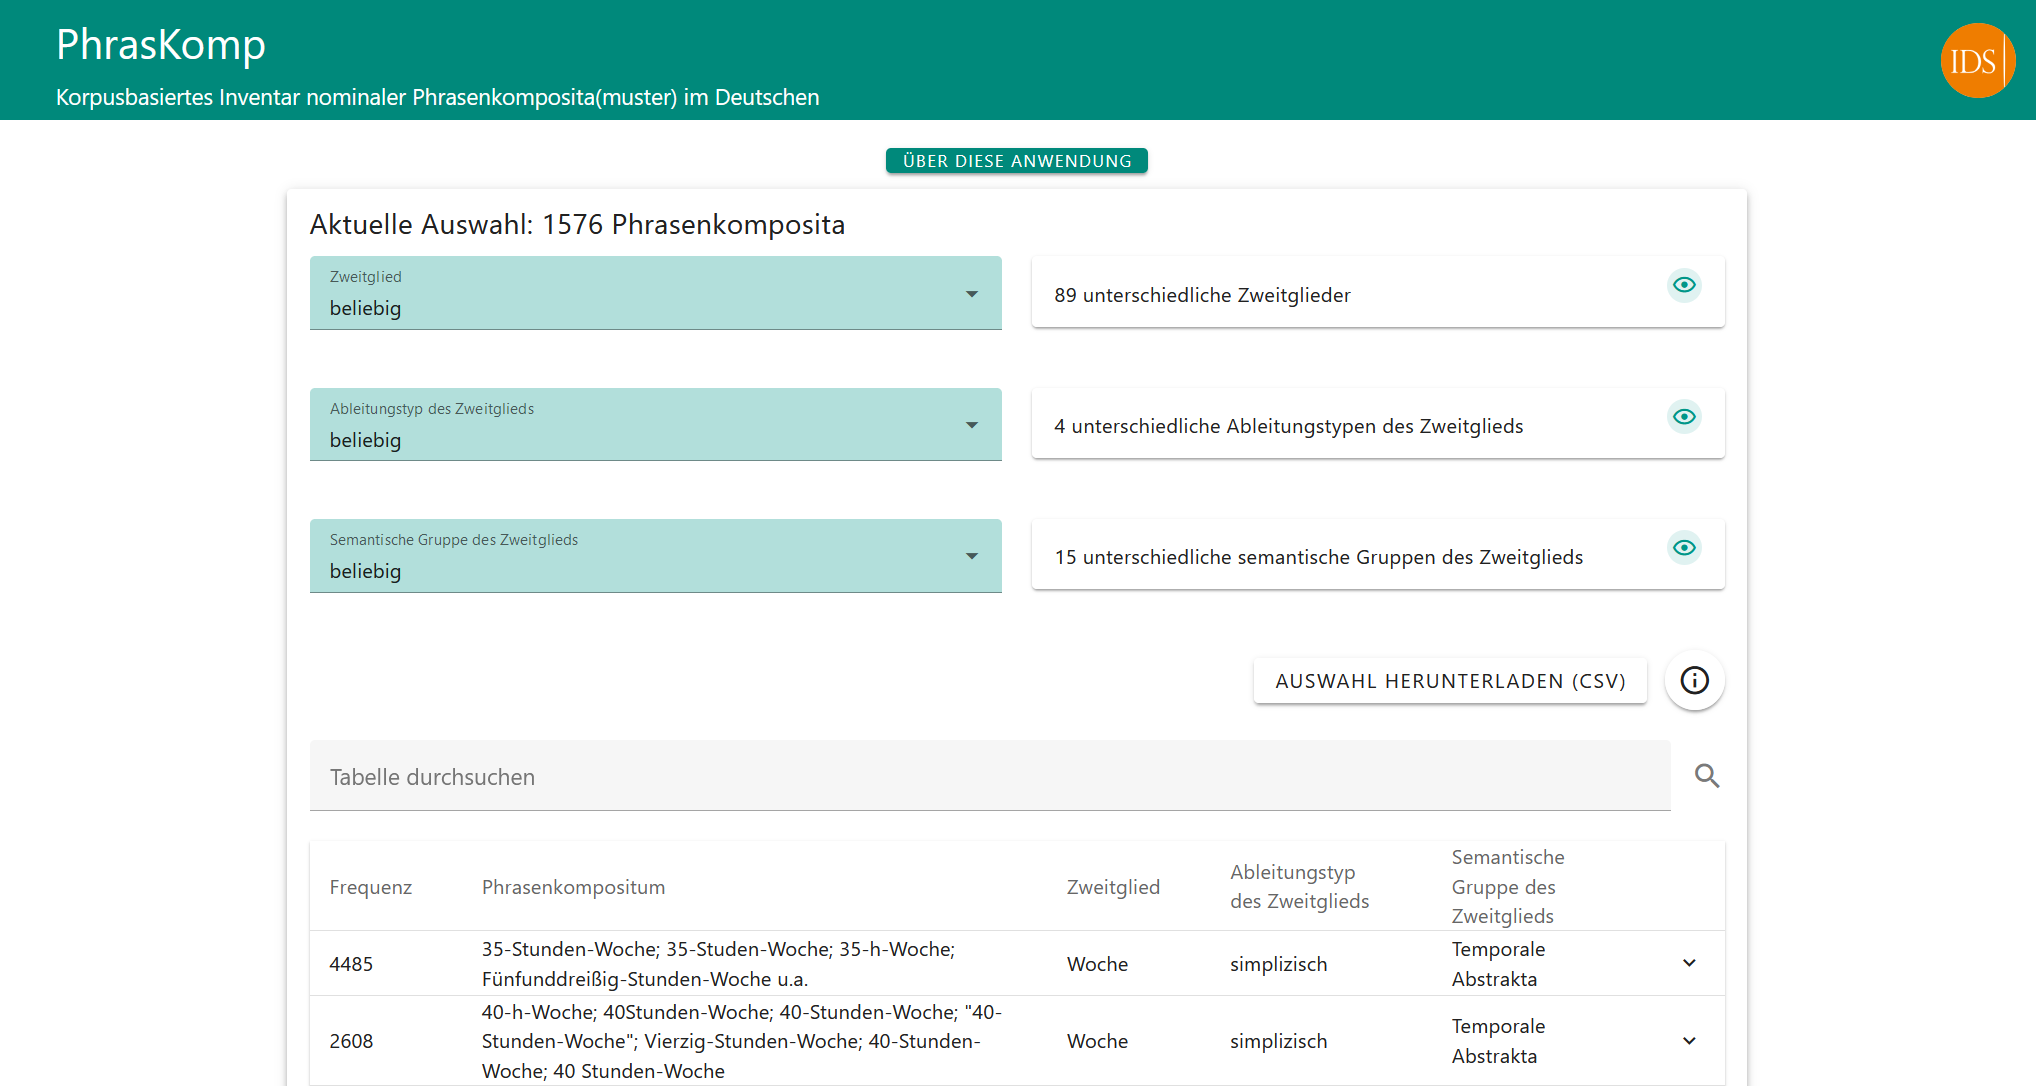
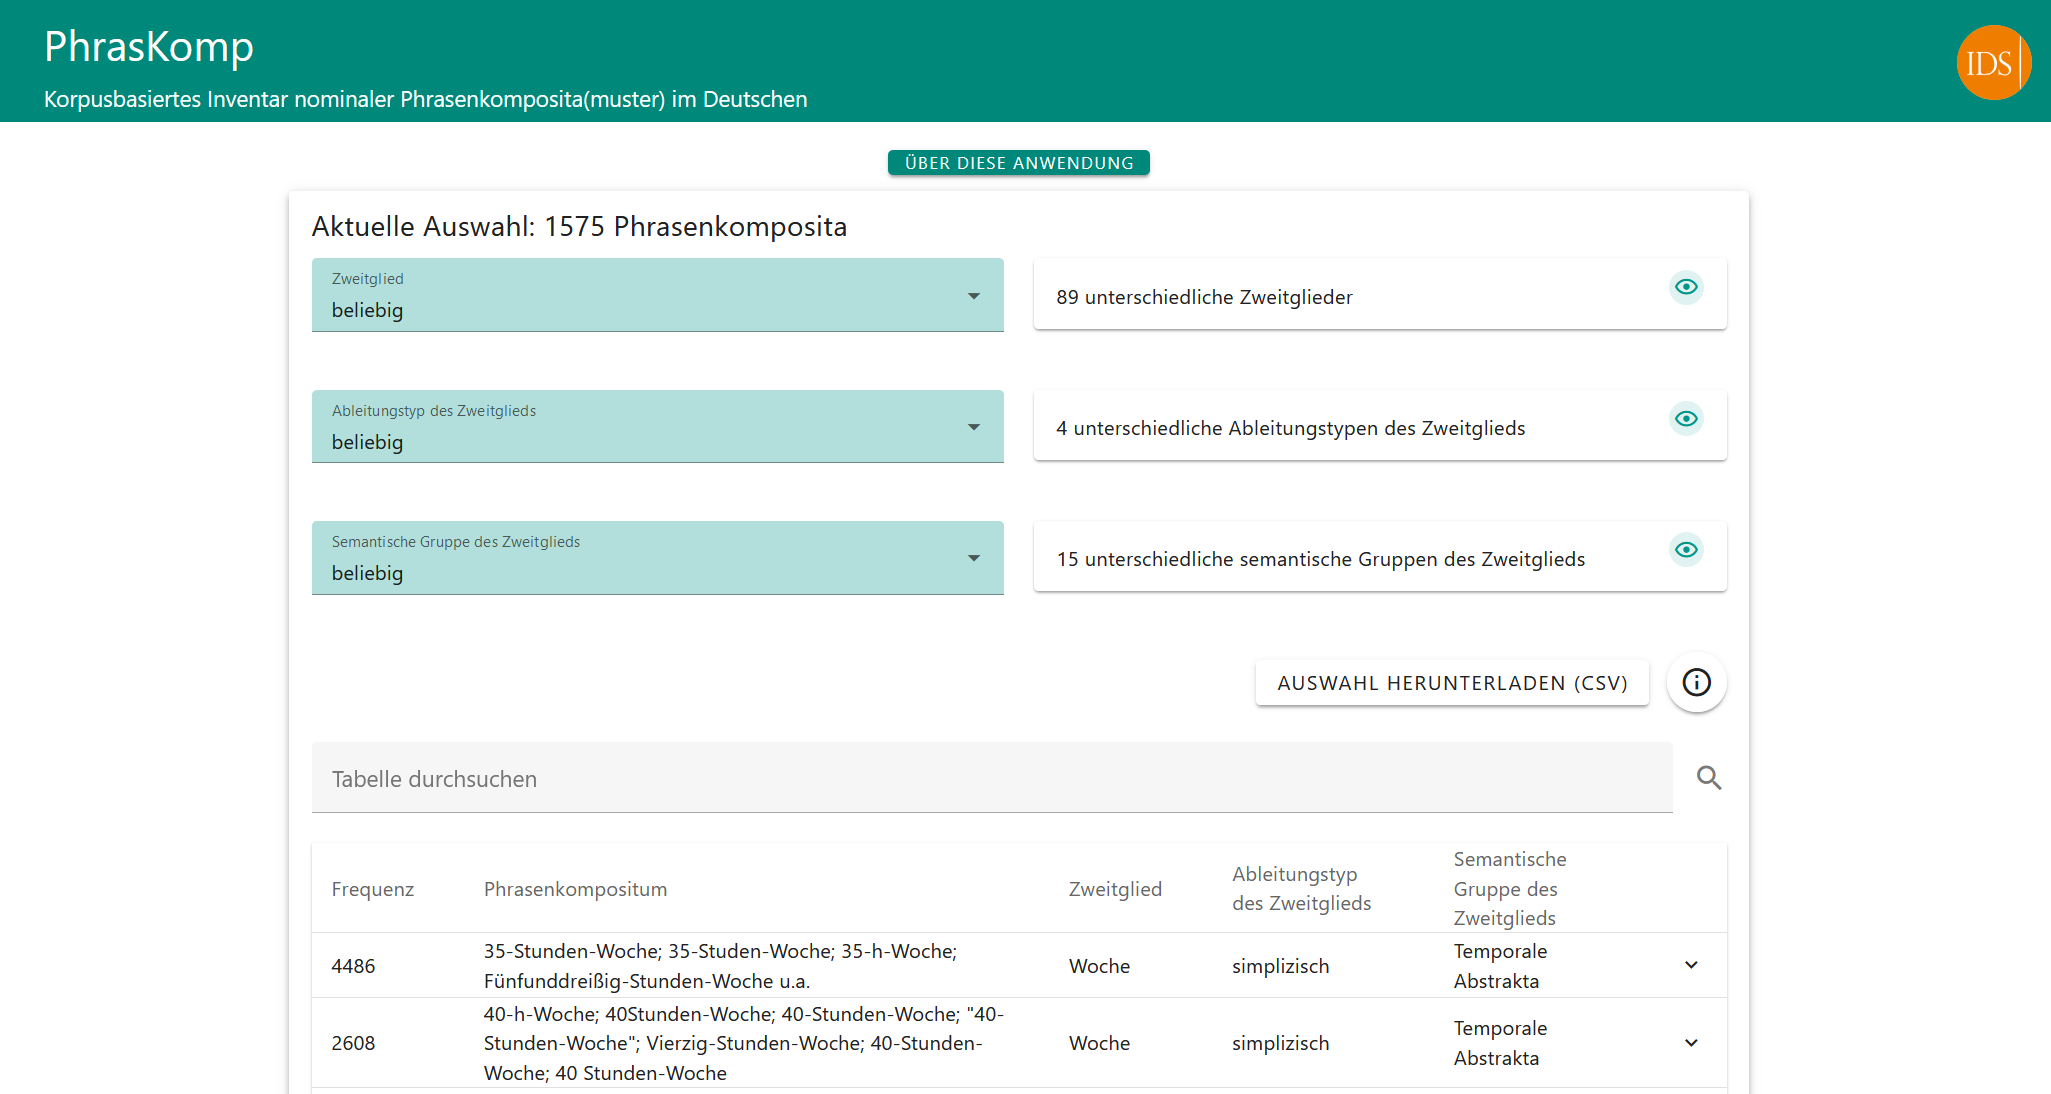
Korrekture Phraskomp typezahlen & Screenshots

diff --git a/stores/resources.js b/stores/resources.js
@@ -152,7 +152,7 @@ export const useResourcesStore = defineStore("resourcesStore", {
           nameLong:
             "PhrasKomp - Korpusbasiertes Inventar nominaler Phrasenkomposita(muster) im Deutschen",
           description:
-            "<b>PhrasKomp</b> ist ein korpusbasiertes, durchsuchbares Inventar von 1.576 nominalen Phrasenkomposita des Deutschen.  Es hat den Anspruch, die Bildungsmöglichkeiten der Phrasenkomposition im Deutschen repräsentativ abzubilden. Aufgrund der enthaltenen manuellen Annotationen kann das Inventar zudem gezielt nach lexikalisch teilspezifizierten oder abstrakten Submustern der Phrasenkomposition durchsucht werden, und zwar in Abhängigkeit des Zweitgliedtyps.",
+            "<b>PhrasKomp</b> ist ein korpusbasiertes, durchsuchbares Inventar von 1.575 nominalen Phrasenkomposita des Deutschen.  Es hat den Anspruch, die Bildungsmöglichkeiten der Phrasenkomposition im Deutschen repräsentativ abzubilden. Aufgrund der enthaltenen manuellen Annotationen kann das Inventar zudem gezielt nach lexikalisch teilspezifizierten oder abstrakten Submustern der Phrasenkomposition durchsucht werden, und zwar in Abhängigkeit des Zweitgliedtyps.",
           img: "./img/sources/phraskomp.png",
           url: "http://uwv.ids-mannheim.de/phraskomp/",
           tags: [],

diff --git a/pages/datatypes/matches.vue b/pages/datatypes/matches.vue
@@ -106,7 +106,7 @@ export default {
         <p>
           In
           <r rkey="PhrasKomp" />
-          wird zu jedem der 1.576 Phrasenkomposita des Inventars ein manuell ausgewählter Beleg angeführt,
+          wird zu jedem der 1.575 Phrasenkomposita des Inventars ein manuell ausgewählter Beleg angeführt,
           der die
           Verwendung und Bedeutung der jeweiligen Bildung prototypisch illustriert. Die Belege enthalten
           das jeweilige

diff --git a/pages/datatypes/category.vue b/pages/datatypes/category.vue
@@ -120,7 +120,7 @@ export default {
           mit kategorialen
           Labels verstehen ist, die sowohl formale Eigenschaften (Ableitungstyp) als auch semantische
           Eigenschaften
-          (semantische Gruppe) abdecken. Diese Label wurden den insgesamt 1.576 Phrasenkomposita des
+          (semantische Gruppe) abdecken. Diese Label wurden den insgesamt 1.575 Phrasenkomposita des
           Inventars händisch
           zugeordnet:
         </p>
